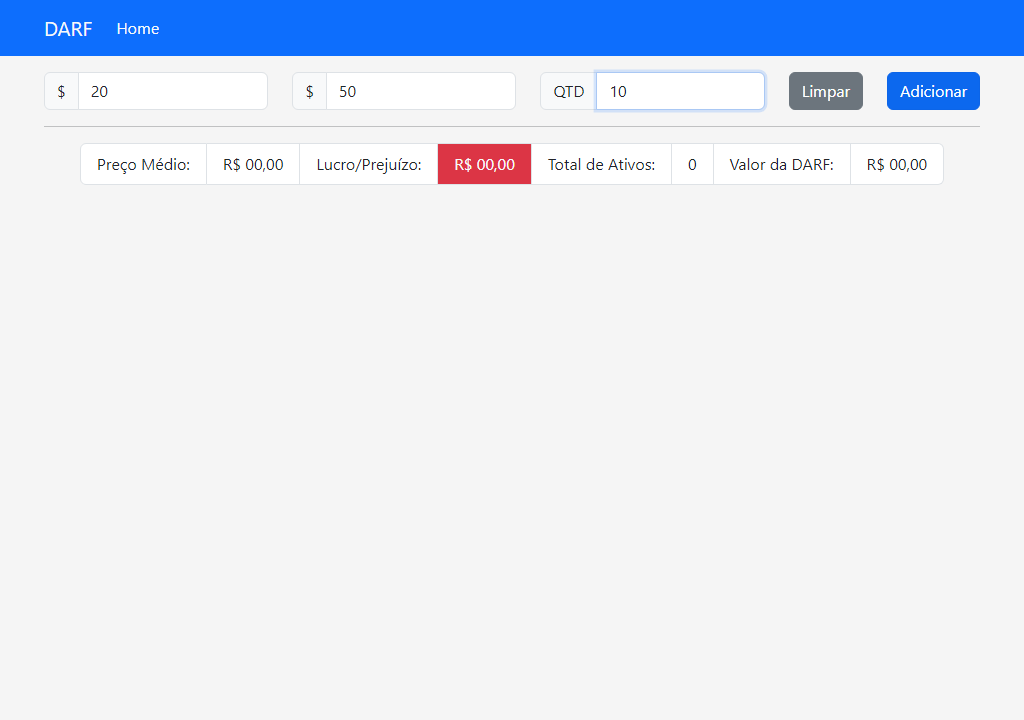
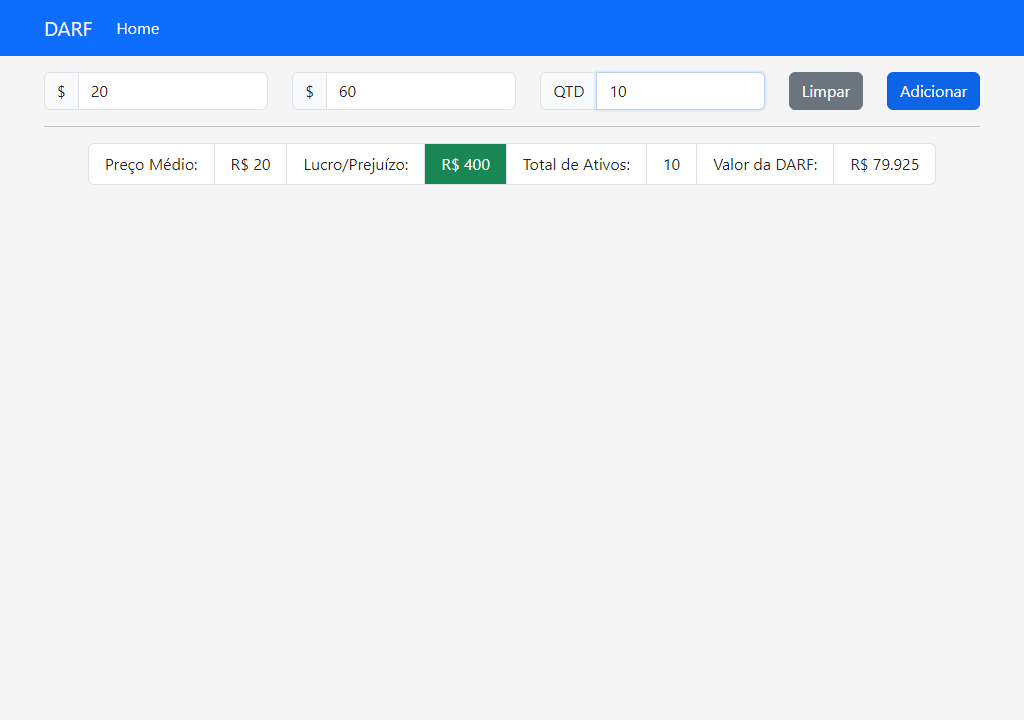
fix(funcional): teste funcional darf

Changed region(s): [[0.2188, 0.1833, 0.9062, 0.275], [0.0938, 0.2139, 0.1875, 0.2444]]

diff --git a/test/FuncionalDarf.js b/test/FuncionalDarf.js
@@ -1,121 +1,3 @@
-// npm install selenium-webdriver
-// npm install --save-dev start-server-and-test
-//"e2e-test": "start-server-and-test http://localhost:3000/ht test2"
-
-// const { Builder, Browser, By,Key,  until } = require('selenium-webdriver');
-// const chrome = require('selenium-webdriver/chrome');
-// const { Options } = require('selenium-webdriver/chrome');
-
-// function esperarTextoAtualizarPorRequisicao(textoInicial) {
-//   return async function(driver) {
-//       const element = await driver.findElement(By.id('profitOrLoss'));
-//       const text = await element.getText();
-//       console.log(text)
-//       return text !== textoInicial;
-//   };
-// }
-
-// const makeDirs = (dir) => {
-//   if (!fs.existsSync(dir)) {
-//     fs.mkdirSync(dir, { recursive: true });
-//   }
-// };
-
-// (async () => {
-
-//    // Configuração do ambiente do WebDriver e opções do navegador
-//    const screen = {
-//     width: 1024,
-//     height: 720
-//   };
-
-//   const chromeOptions = new Options();
-//   chromeOptions.addArguments('--headless');
-//   chromeOptions.addArguments('--no-sandbox');
-//   chromeOptions.windowSize(screen);
-
-//   const builder = new Builder()
-//     .forBrowser('chrome')
-//     .setChromeOptions(chromeOptions);
-
-//     // Criação da instância do WebDriver
-//   let driver = await builder.build();
-
-//   try {
-    
-//     // Navegação para a página HTML
-//     await driver.get('https://stealth-faithful-geese.glitch.me/darf');
-//       //'https://aeolian-momentous-cellar.glitch.me/Example');
-
-//     // Wait for 5 secs to let the dynamic content to load
-//     await driver.sleep(15000);
-    
-//     // Esperar o site carregar completamente
-
-//     await driver.takeScreenshot().then((image, err) => {
-//         require('fs').writeFileSync('./fotos/darf/inicio-darf.png', image, 'base64', function (err) {
-//           if (err == null){
-//               console.log('Gravou Foto');
-//           }else{
-//               console.error('Erro ->' + err);
-//           }
-  
-//         });
-//       });
-  
-//     await driver.findElement(By.name('inpBuy')).sendKeys(20, Key.RETURN);
-//     await driver.findElement(By.name('inpSell')).sendKeys(50, Key.RETURN);
-//     await driver.findElement(By.name('inpQtd')).sendKeys(10, Key.RETURN);
-
-//    // Captura de tela final
-//     await driver.takeScreenshot().then((image, err) => {
-//       require('fs').writeFileSync('./fotos/darf/valorDigitado-darf.png', image, 'base64', function (err) {
-//         if (err == null){
-//             console.log('Gravou Foto');
-//         }else{
-//             console.error('Erro ->' + err);
-//         }
-//       });
-//     });
-    
-//     // Verificação dos botões 
-//     const calculaButton = await driver.findElement(By.id('btnAdd'));
-
-//    // valorAltura = await driver.findElement(By.id('valorAltura'));
-//    // await valorAltura.sendKeys('10');
-
-//    // valorBase = await driver.findElement(By.id('valorBase'));
-//    // await valorBase.sendKeys('4');
-
-//     // Clique no botão 
-//     await driver.findElement(By.name('btnAdd')).click();
-
-//     await driver.wait(esperarTextoAtualizarPorRequisicao('R$ 00,00'), 10000);
-
-//     // await calculaButton.click();
-
-//     // await driver.wait(15000);
-
-//     // Captura de tela final
-//     await driver.takeScreenshot().then((image, err) => {
-//       require('fs').writeFileSync('./fotos/darf/fim-darf.png', image, 'base64', function (err) {
-//         if (err == null){
-//             console.log('Gravou Foto');
-//         }else{
-//             console.error('Erro ->' + err);
-//         }
-
-//       });
-//     });
-//     // Encerramento do WebDriver
-    
-//   } catch (error) {
-//     console.error('Teste funcional falhou:', error);
-//   } finally {
-//     await driver.quit();
-//   }
-
-// })();
 
 const { Builder, By, Key, until } = require('selenium-webdriver');
 const chrome = require('selenium-webdriver/chrome');
@@ -123,6 +5,14 @@ const { Options } = require('selenium-webdriver/chrome');
 const fs = require('fs');
 const path = require('path');
 
+function esperarTextoAtualizarPorRequisicao(textoInicial) {
+  return async function(driver) {
+      const element = await driver.findElement(By.id('profitOrLoss'));
+      const text = await element.getText();
+      console.log(text)
+      return text !== textoInicial;
+  };
+}
 
 const makeDirs = (dir) => {
   if (!fs.existsSync(dir)) {
@@ -172,8 +62,9 @@ const makeDirs = (dir) => {
     });
 
     
-    await driver.findElement(By.id('salario')).sendKeys(5000, Key.RETURN);
-    await driver.findElement(By.id('mes')).sendKeys(12, Key.RETURN);
+    await driver.findElement(By.id('inpBuy')).sendKeys(20, Key.RETURN);
+    await driver.findElement(By.id('inpSell')).sendKeys(60, Key.RETURN);
+    await driver.findElement(By.id('inpQtd')).sendKeys(10, Key.RETURN);
 
    
     await driver.takeScreenshot().then((image, err) => {
